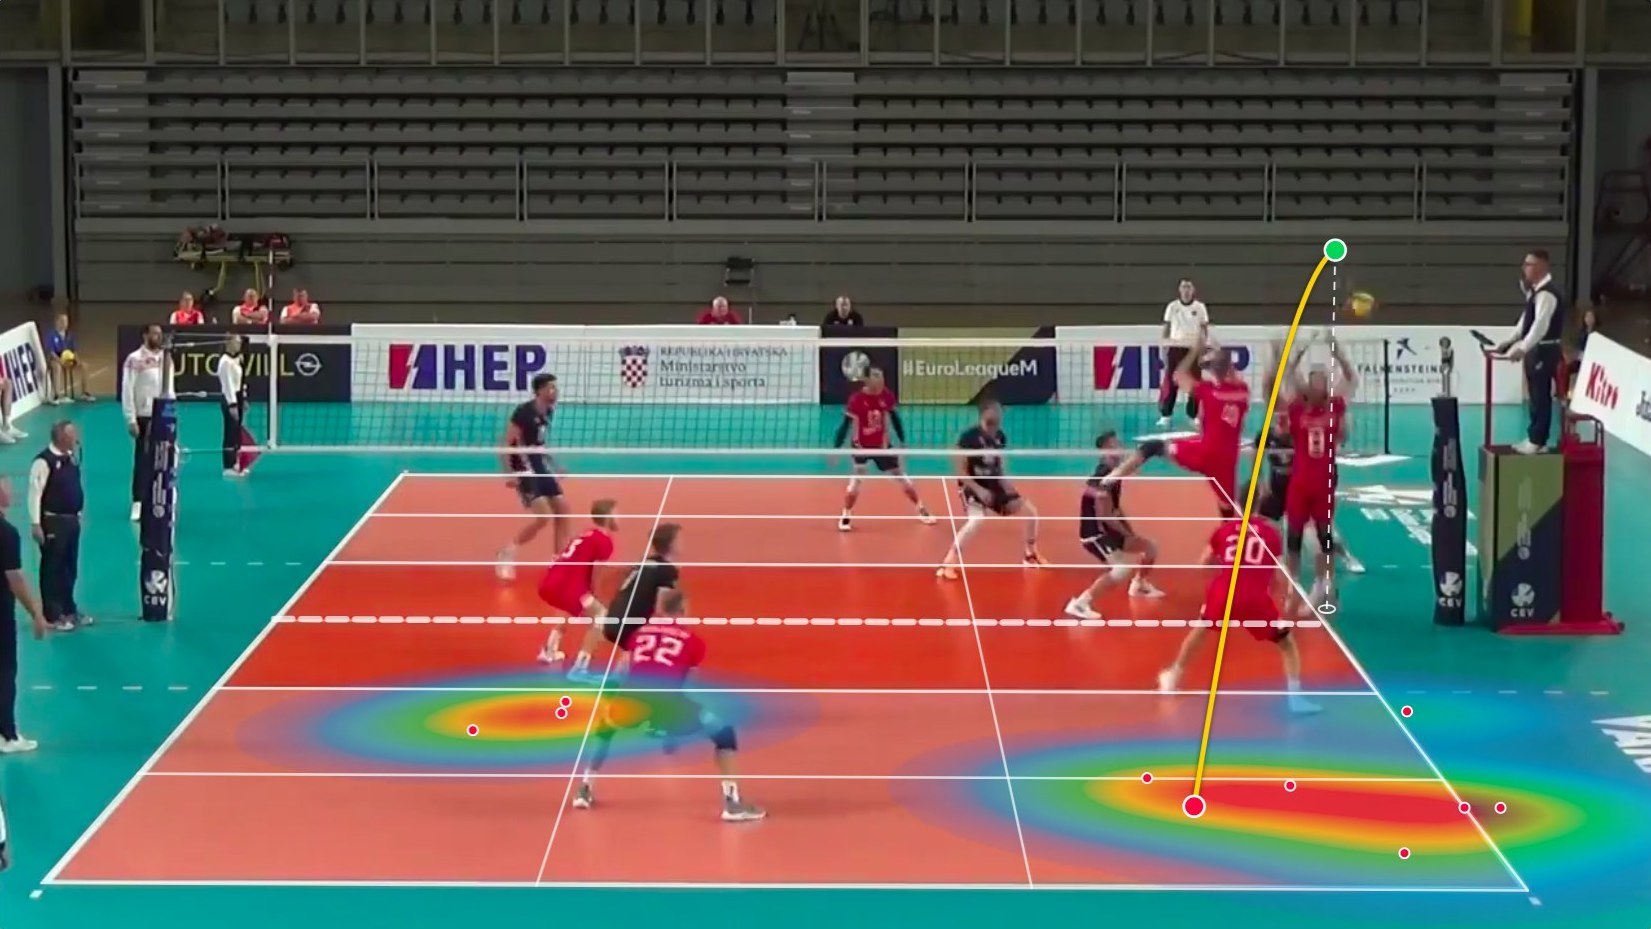
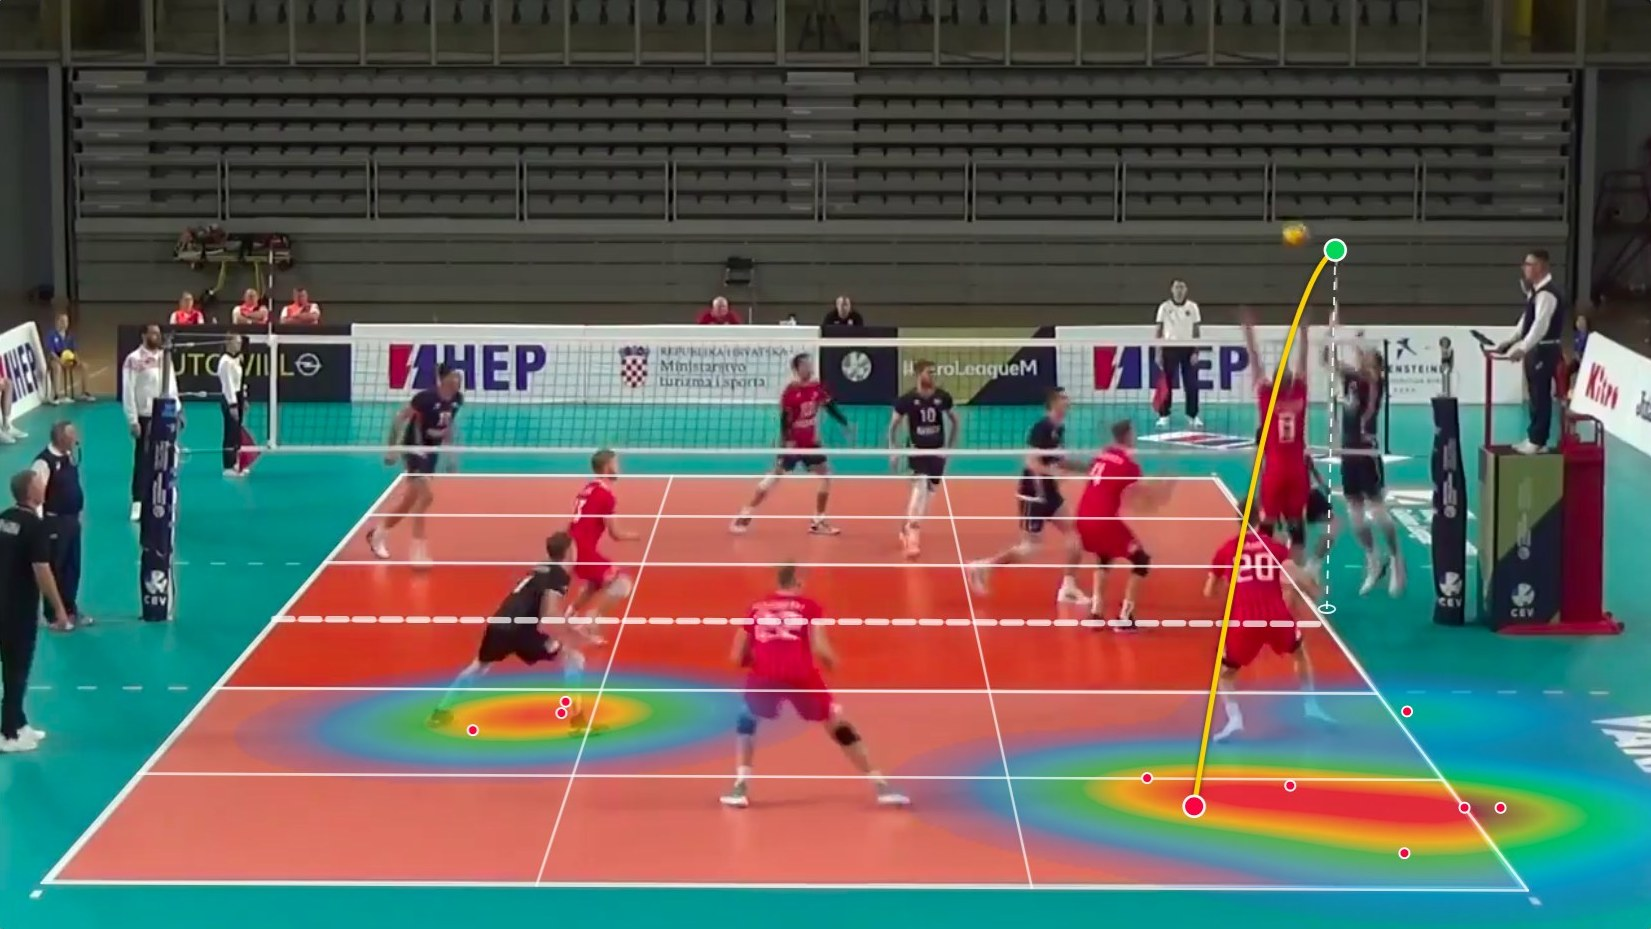
Product site: landing shot 0.6 s earlier, with the ball at the contact point

diff --git a/site/README.md b/site/README.md
@@ -13,7 +13,7 @@ Both share `site.css` and `site.js` (the court layer tabs and the film's chapter
   2. 0:38-1:05, ten matches of made-up data: five data slides (5 s each: Serve cards, Rotation P5, Set, Serve targets, Player stats; `mkslide.sh` makes one) under the scene title card "Sample data: 10 matches" / "サンプルデータ：10 試合". The data is the fictional Riverside Herons (RSH): ten matches from `source/make_demo_dvw.py` (the games list is in a copy of its `__main__`: 3 opponents, 10 Saturdays from 2026-09-12 to 2026-11-14, seeds 3, 8, 15, 21, 34, 41, 52, 57, 63, 70), imported with "Import from folders" into a fresh library, with a 2-hour stand-in video per match (a 60 s loop of `source/still-attack.jpg`, repeated with `-stream_loop` and `-c copy`; encoding 2 hours directly takes far too long). A project "Riverside Herons season" holds all ten matches.
   3. 1:05-1:10, the team comparison slide, exported from a second project, "Hillcrest Falcons" (target team HCF, its 4 matches), because the slide needs two projects: Team HCF, our team the RSH season. Its scene title card is switched off so it joins the slides.
   The film's moments are at 0:02, 0:11, 0:20, 0:29, 0:38 and 1:05 (chapters) and 0:40, 0:45, 0:55, 1:00 (cards), which `data-t` in the HTML and `site.js` use.
-- `img/court-*.jpg` (the court layers, shared by both pages) are the film's match (the `SyncScout-film-work` library, on a copy) paused at the moment of the play, the video area of a 1.5x window shot trimmed to 1651 x 929, with scoreboard, caption, serve speed, landing effect and result badge off and the grid on. App times (the app reads about 0.17 s later than ffmpeg on this file): landing (heatmap and landings) and cones, S1 09-09 #7 SEDLACEK attack, 873.7 s, at the hit; flight (points, flight curve) and zone (zones, no curve), S1 01-02 #11 DIRLIC attack, 455.85 s, at the block (the scout time, 456, comes about 0.85 s late here); serve (heatmap, serve paths, landings), S1 12-09 #11 DIRLIC serve, 1013.2 s, the server in the air. An earlier set caught each play 1.5 to 2 s late, after it was over.
+- `img/court-*.jpg` (the court layers, shared by both pages) are the film's match (the `SyncScout-film-work` library, on a copy) paused at the moment of the play, the video area of a 1.5x window shot trimmed to 1651 x 929, with scoreboard, caption, serve speed, landing effect and result badge off and the grid on. App times (the app reads about 0.17 s later than ffmpeg on this file): landing (heatmap and landings), S1 09-09 #7 SEDLACEK attack, 873.1 s, the ball at the contact point; cones, the same attack at 873.7 s; flight (points, flight curve) and zone (zones, no curve), S1 01-02 #11 DIRLIC attack, 455.85 s, at the block (the scout time, 456, comes about 0.85 s late here); serve (heatmap, serve paths, landings), S1 12-09 #11 DIRLIC serve, 1013.2 s, the server in the air. An earlier set caught each play 1.5 to 2 s late, after it was over.
 - `img/court-autofit.jpg` and `img/ja/court-autofit.jpg` show the court being fitted automatically: import the match into a fresh library ("Import one match"), open it, seek to a rally (1424.5 s), and capture before pressing Done: the grid is laid by itself, with the four corner dots and the notice. The Japanese one needs a second fresh library started with `VR_LANG=ja`, because the notice only shows the first time.
 - `img/film-*.jpg` and `img/ja/film-*.jpg` are frames of those moments (7.6, 16.2, 25.6, 34.4, 42.5, 47.5, 57.5, 62.5 and 67.5 s); `film-poster.jpg` is the 25.6 s frame. `img/after.jpg` and `img/ja/after.jpg` (the 16.2 s frame) and `img/before.jpg` make the before-and-after pair: `before.jpg` is the same moment cut straight from the source video at 906.5 s: the clip starts 3 s before the scout time (905 s), so film time 17.5 s is 902 + 4.5 s. (The app's own playhead reads about 1.4 s differently from ffmpeg for this file, so find stills with ffmpeg, not by the playhead.)
 - The scout file used for the film is the CRO-DNK .dvw with the two team codes in `[3TEAMS]` changed from numbers to CRO and DNK. Seeking in the film needs a server that answers Range requests (any normal host does; Python's `http.server` does not).
